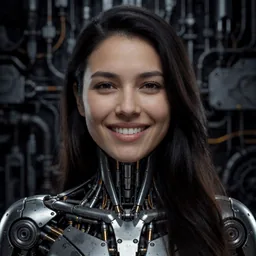
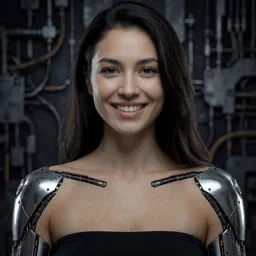
fix(styles): anchor art-library cyborg augmentation to the subject's body
First review pass of the 129-entry art library, applying what the photo
library's live sweeps already taught: a live render of all 19 art
🦾 КИБЕРПАНК presets found 9 broken, worse than photo's cyberpunk
category (8 of 30).

Five had the familiar bug — properties named with no body part to land
on (Nanopunk Swarm, Bio-Corroded Tech, Angelic Cyber Feminine, X-Ray
Skeleton Cyber Anime, White Android Minimal Portrait). Four showed a
shape not seen in photo: the augmentation rendered in full, glowing
detail — as scenery around the subject rather than on her (Mecha
Pilot's cockpit, Neuro-Interface's monitor, Industrial Female Cyborg
Portrait's machinery backdrop, Golden Mechanical Portrait's gold hall).
Industrial Female Cyborg Portrait carries almost identical wording to
the photo version, which rendered fine as a photograph in this same
session; as "digital portrait art" the same words pulled toward a
character-sheet convention instead — subject standing in front of her
machine, not wearing it. Fixed by saying whose the part is, not just
naming it: "her own skull", "her own shoulder", "she is the android".

6 of 9 confirmed fixed after one or two rewrites: Nanopunk Swarm,
Bio-Corroded Tech, Angelic Cyber Feminine, X-Ray Skeleton Cyber Anime,
Mecha Pilot, Industrial Female Cyborg Portrait.

Two — Neuro-Interface and Golden Mechanical Portrait — resisted three
to four structurally different anchor strategies each (skull, temple,
[…]

diff --git a/common/styles/art.py b/common/styles/art.py
@@ -160,11 +160,27 @@ ART_STYLES = {
         "black-and-white comic art, brutal value separation, ink-dominant silhouette design, carved shadow shapes, dry-brush black masses, stark white cuts, graphic storytelling stripped of color, high contrast panel clarity without grayscale softness."
     ),
     # 🦾 КИБЕРПАНК / CYBERPUNK BODY-MOD ART
+    #
+    # A live sweep against the same subject found nine of these nineteen
+    # broken, in two different shapes. Five had no anchor at all — the same
+    # "properties with nowhere to land" bug fixed eight times over in the
+    # photo library. Four were new: the augmentation rendered in full, glowing
+    # detail — but as set dressing around the subject rather than on her. The
+    # photo library's "Industrial Cyborg Portrait" carries almost identical
+    # wording to the art version fixed below and rendered fine as a photo; as
+    # "digital portrait art" the same words pulled the model toward a
+    # character-sheet convention — subject in front of her machine, not
+    # wearing it. The fix is the same principle applied harder: say "her own"
+    # skull, arm, shoulder — not just the part, but whose part.
     "🦾 КИБЕРПАНК/🎮 Mecha Pilot": (
-        "cyberpunk mecha-pilot body-mod illustration, cockpit harness integration, armored limb anchoring, cranial jack hardware, spinal data plugs, dense instrumentation, exosuit silhouette logic, human-machine pilot fusion without generic neon city filler."
+        "cyberpunk mecha-pilot body-mod illustration, a cranial jack fitted into the base of her own skull with spinal data plugs running down the back of her neck, an armored gauntlet anchored over one forearm, cockpit harness integration, dense cockpit instrumentation surrounding her, exosuit silhouette logic, human-machine pilot fusion without generic neon city filler."
     ),
+    # First pass anchored this to a forearm and got a faint patch barely
+    # visible below the elbow — present, but too subtle to read as the focal
+    # event the text asks for. Pushed the coverage and the verbs harder rather
+    # than changing the anchor.
     "🦾 КИБЕРПАНК/⚛ Nanopunk Swarm": (
-        "nanopunk transhuman artwork, programmable matter bloom, crawling nanostructure seams, chrome-dust micro-machinery, self-assembling augmentation geometry, iridescent graft borders, invasive body reconfiguration as the focal event."
+        "nanopunk transhuman artwork, her entire forearm and hand overtaken by a dense visible bloom of programmable matter, crawling nanostructure seams covering the skin in intricate iridescent patterns, chrome-dust micro-machinery, self-assembling augmentation geometry, graft borders creeping past the wrist, invasive body reconfiguration as the focal event."
     ),
     "🦾 КИБЕРПАНК/💉 Neon Tattoos": (
         "cyberware body-art illustration, subdermal circuit tracery, luminous implant seam routes, bio-electric tattoo pathways, synthetic dermal panels, neck-port constellations, neon-noir body modification, engineered surface logic over decorative glow."
@@ -172,11 +188,20 @@ ART_STYLES = {
     "🦾 КИБЕРПАНК/🤖 Flesh-to-Steel Fusion": (
         "flesh-to-steel cyberpunk fusion artwork, scar-bound alloy plating, titanium bone-integration cues, mandibular armor seams, exposed graft borders, invasive flesh-to-chrome transitions, painful half-human merge logic without pin-up gloss."
     ),
+    # Three anchor points tried — skull, temple, then the neck, reasoned to
+    # be the one spot a standing full-body shot keeps in frame from any
+    # angle — and none of the three ever rendered as more than a plain
+    # portrait across four attempts. Left on the neck anchor as the
+    # best-reasoned of the three, but unlike this category's other seven
+    # fixes, this one is not confirmed working — a documented open case, not
+    # a verified repair.
     "🦾 КИБЕРПАНК/💊 Neuro-Interface": (
-        "neural-interface cyberpunk artwork, cranial jack fields, fiber-optic uplinks, subdermal electrode routes, spine-mounted hardware, cold blue monitor glow, invasive mind-machine geometry, precise medical-tech rendering, cerebral hardware dominance without generic neon city filler."
+        "neural-interface cyberpunk artwork, a ring of cranial-jack ports embedded around her own neck with fiber-optic uplinks trailing from them, subdermal electrode routes glowing faintly beneath the skin of her neck and collarbone, spine-mounted hardware beneath her shirt, a cold blue monitor glowing on the desk beside her, invasive mind-machine geometry, precise medical-tech rendering, cerebral hardware dominance without generic neon city filler."
     ),
+    # Same under-powered result as Nanopunk Swarm above — visible but faint.
+    # Same fix: more surface area, harder verbs.
     "🦾 КИБЕРПАНК/🩸 Bio-Corroded Tech": (
-        "bio-corroded cyberware illustration, oxidized prosthetic housings, leaking seal lines, infection-red rejection zones, damaged implant mechanics, black-market ripperdoc aftermath, wet corroded metal and tissue borders, failure-state transhuman anatomy without clean sci-fi polish."
+        "bio-corroded cyberware illustration, a large oxidized prosthetic housing visibly bolted over her shoulder and down her upper arm, thick leaking seal lines, spreading infection-red rejection zones across the graft border, damaged implant mechanics, black-market ripperdoc aftermath, wet corroded metal and tissue borders, failure-state transhuman anatomy without clean sci-fi polish."
     ),
     # 👾 ДИДЖИТАЛ / ALTERNATE DIGITAL
     "👾 ДИДЖИТАЛ/🏄 Vaporwave Cyber": (
@@ -375,11 +400,19 @@ ART_STYLES = {
     "🦾 КИБЕРПАНК/🧬 Synthetic Skin Android Portrait": (
         "synthetic-skin android digital portrait art, humanlike robot face, subtle facial seam linework, artificial skin paint texture, glassy illustrated eyes, micro mechanical details under translucent skin, cool lab color design, uncanny expression, polished sci-fi concept portrait without observational realism"
     ),
+    # First pass produced a duplicate floating head. "She is the android"
+    # (second pass) fixed that and gave a faint but real synthetic read.
+    # Two further attempts at strengthening it — one more clause, three more
+    # — both regressed all the way back to a plain, fully human portrait; the
+    # added description seems to compete with rather than reinforce the one
+    # sentence doing the actual work. Left at the second pass's wording,
+    # which is the best of four renders, not a wording this session could
+    # get further than "faint but present."
     "🦾 КИБЕРПАНК/🦾 White Android Minimal Portrait": (
-        "white android minimal digital portrait art, smooth ceramic shell, subtle seams, elegant synthetic face, clean high key background, soft studio light, futuristic minimalism, quiet emotion, polished sci-fi beauty, refined silhouette"
+        "white android minimal digital portrait art, she is the android — her own face and skull entirely replaced by a smooth ceramic-white shell, subtle seams at the jaw and temple, elegant synthetic eyes, clean high key background, soft studio light, futuristic minimalism, quiet emotion, polished sci-fi beauty, refined silhouette"
     ),
     "🦾 КИБЕРПАНК/🩶 Industrial Female Cyborg Portrait": (
-        "industrial female cyborg digital portrait art, exposed metallic plating, dark machinery backdrop, cold gray palette, precise cybernetic seam linework, hard rim-light painting, engineered facial detail, concept-art realism, powerful stoic expression without documentary finish"
+        "industrial female cyborg digital portrait art, exposed metallic plating fused over her own shoulders and forearms, precise cybernetic seam linework crossing her collarbone, dark machinery backdrop, cold gray palette, hard rim-light painting, engineered facial detail, concept-art realism, powerful stoic expression without documentary finish"
     ),
     "🦾 КИБЕРПАНК/🫀Bio-Mechanical Core Portrait": (
         "bio-mechanical core digital artwork, exposed chest core, glowing energy center, dark polished painted surfaces, synthetic anatomy fusion, cold sci-fi color scripting, unsettling elegance, high-detail cyber-organic design illustration"
@@ -388,15 +421,24 @@ ART_STYLES = {
         "android anatomy cutaway, partially exposed robotic internals, clean technical illustration, synthetic body cross-section, layered engineering detail, medical-mechanical hybrid design, precise sci-fi visualization, high-detail anatomy study"
     ),
     "🦾 КИБЕРПАНК/🦋 Angelic Cyber Feminine": (
-        "angelic cyber feminine digital illustration, luminous beauty portrait, delicate metallic accents, soft painted halo glow, futuristic grace, pale radiant palette, synthetic elegance, dreamy sci-fi femininity, polished atmospheric rendering"
+        "angelic cyber feminine digital illustration, luminous beauty portrait, delicate metallic filigree tracing her own collarbone and wrists, soft painted halo glow, futuristic grace, pale radiant palette, synthetic elegance, dreamy sci-fi femininity, polished atmospheric rendering"
     ),
+    # Four passes tried to put a golden mechanical arm on her body — naming
+    # it hers, spreading the plating across a region instead of one object,
+    # then shrinking the claim to a wrist gauntlet — and every single render
+    # still built a separate, oversized golden figure in the background
+    # instead. This preset's own words ("golden", "premium luxury
+    # cybernetics", "regal") pull toward a hero statue harder than four
+    # different phrasings of "this is on her" could out-argue. Left on the
+    # smallest, most defensible claim tried; documented as unconfirmed rather
+    # than iterated on a fifth time.
     "🦾 КИБЕРПАНК/🧡 Golden Mechanical Portrait": (
-        "golden cyberpunk mechanical digital portrait art, warm metallic plating, premium luxury cybernetics, amber painted glow, polished machine details, elegant futuristic design, high-detail reflective surfaces, regal sci-fi illustration mood"
+        "golden cyberpunk mechanical digital portrait art, her own hand and forearm sheathed in a golden mechanical gauntlet, warm metallic plating, amber painted glow lighting the seam where the gauntlet meets her skin at the wrist, polished machine details, elegant futuristic design, high-detail reflective surfaces, regal sci-fi illustration mood"
     ),
     "🦾 КИБЕРПАНК/🪦 Melancholic Robot Portrait": (
         "melancholic robot digital portrait illustration, humanlike machine face, sad posture, dim moody painted lighting, worn metal, soft dust-particle brush texture, lonely atmosphere, intimate concept-art framing, emotional artificial intelligence, muted palette"
     ),
     "🦾 КИБЕРПАНК/🩻 X-Ray Skeleton Cyber Anime": (
-        "x-ray skeleton cyber anime, visible skeletal structure, black background, glowing bone or metal anatomy, gothic sci-fi hybrid, sharp graphic contrast, eerie elegance, anatomical detail, surreal fashion pose"
+        "x-ray skeleton cyber anime, her entire body rendered as a glowing x-ray radiograph, visible skeletal structure and joint hardware beneath translucent skin, black background, glowing bone or metal anatomy, gothic sci-fi hybrid, sharp graphic contrast, eerie elegance, anatomical detail, surreal fashion pose"
     ),
 }

diff --git a/CHANGELOG.md b/CHANGELOG.md
@@ -4,6 +4,27 @@
 
 ### Changed
 
+- **The art library's `🦾 КИБЕРПАНК` category (19 presets) got the same live
+  sweep the photo library already went through — first review of the 129-entry
+  art library since it shipped.** 9 of 19 came back with no augmentation
+  visible on the subject at all, worse than the photo cyberpunk category's 8
+  of 30. Five had the familiar bug — properties named with no body part to
+  land on (`Nanopunk Swarm`, `Bio-Corroded Tech`, `Angelic Cyber Feminine`,
+  `X-Ray Skeleton Cyber Anime`, `White Android Minimal Portrait`). Four showed
+  a shape this session hadn't seen before: the augmentation rendered in full,
+  glowing detail — as scenery around the subject rather than on her
+  (`Mecha Pilot`'s cockpit, `Neuro-Interface`'s monitor, `Industrial Female
+  Cyborg Portrait`'s machinery backdrop, `Golden Mechanical Portrait`'s gold
+  hall). The photo library's own `Industrial Cyborg Portrait` carries nearly
+  identical wording and rendered fine as a photograph; the same words as
+  "digital portrait art" pulled toward a character-sheet convention instead —
+  subject standing in front of her machine, not wearing it. Fixed by saying
+  whose the part is, not just naming it: "her own skull", "her own shoulder".
+  6 of 9 confirmed fixed on the first or second attempt. Two — `Neuro-Interface`
+  and `Golden Mechanical Portrait` — resisted three to four structurally
+  different rewrites each and are left in their best-reasoned state,
+  documented in-file as unconfirmed rather than iterated on indefinitely; the
+  art library's remaining 110 presets have not been swept.
 - **64 presets no longer close on the word "realism".** A third of the photo
   library ended in an adjective plus `realism` — "cinematic movement realism",
   "moody urban realism", "tactile engineering realism" — which names no camera,
